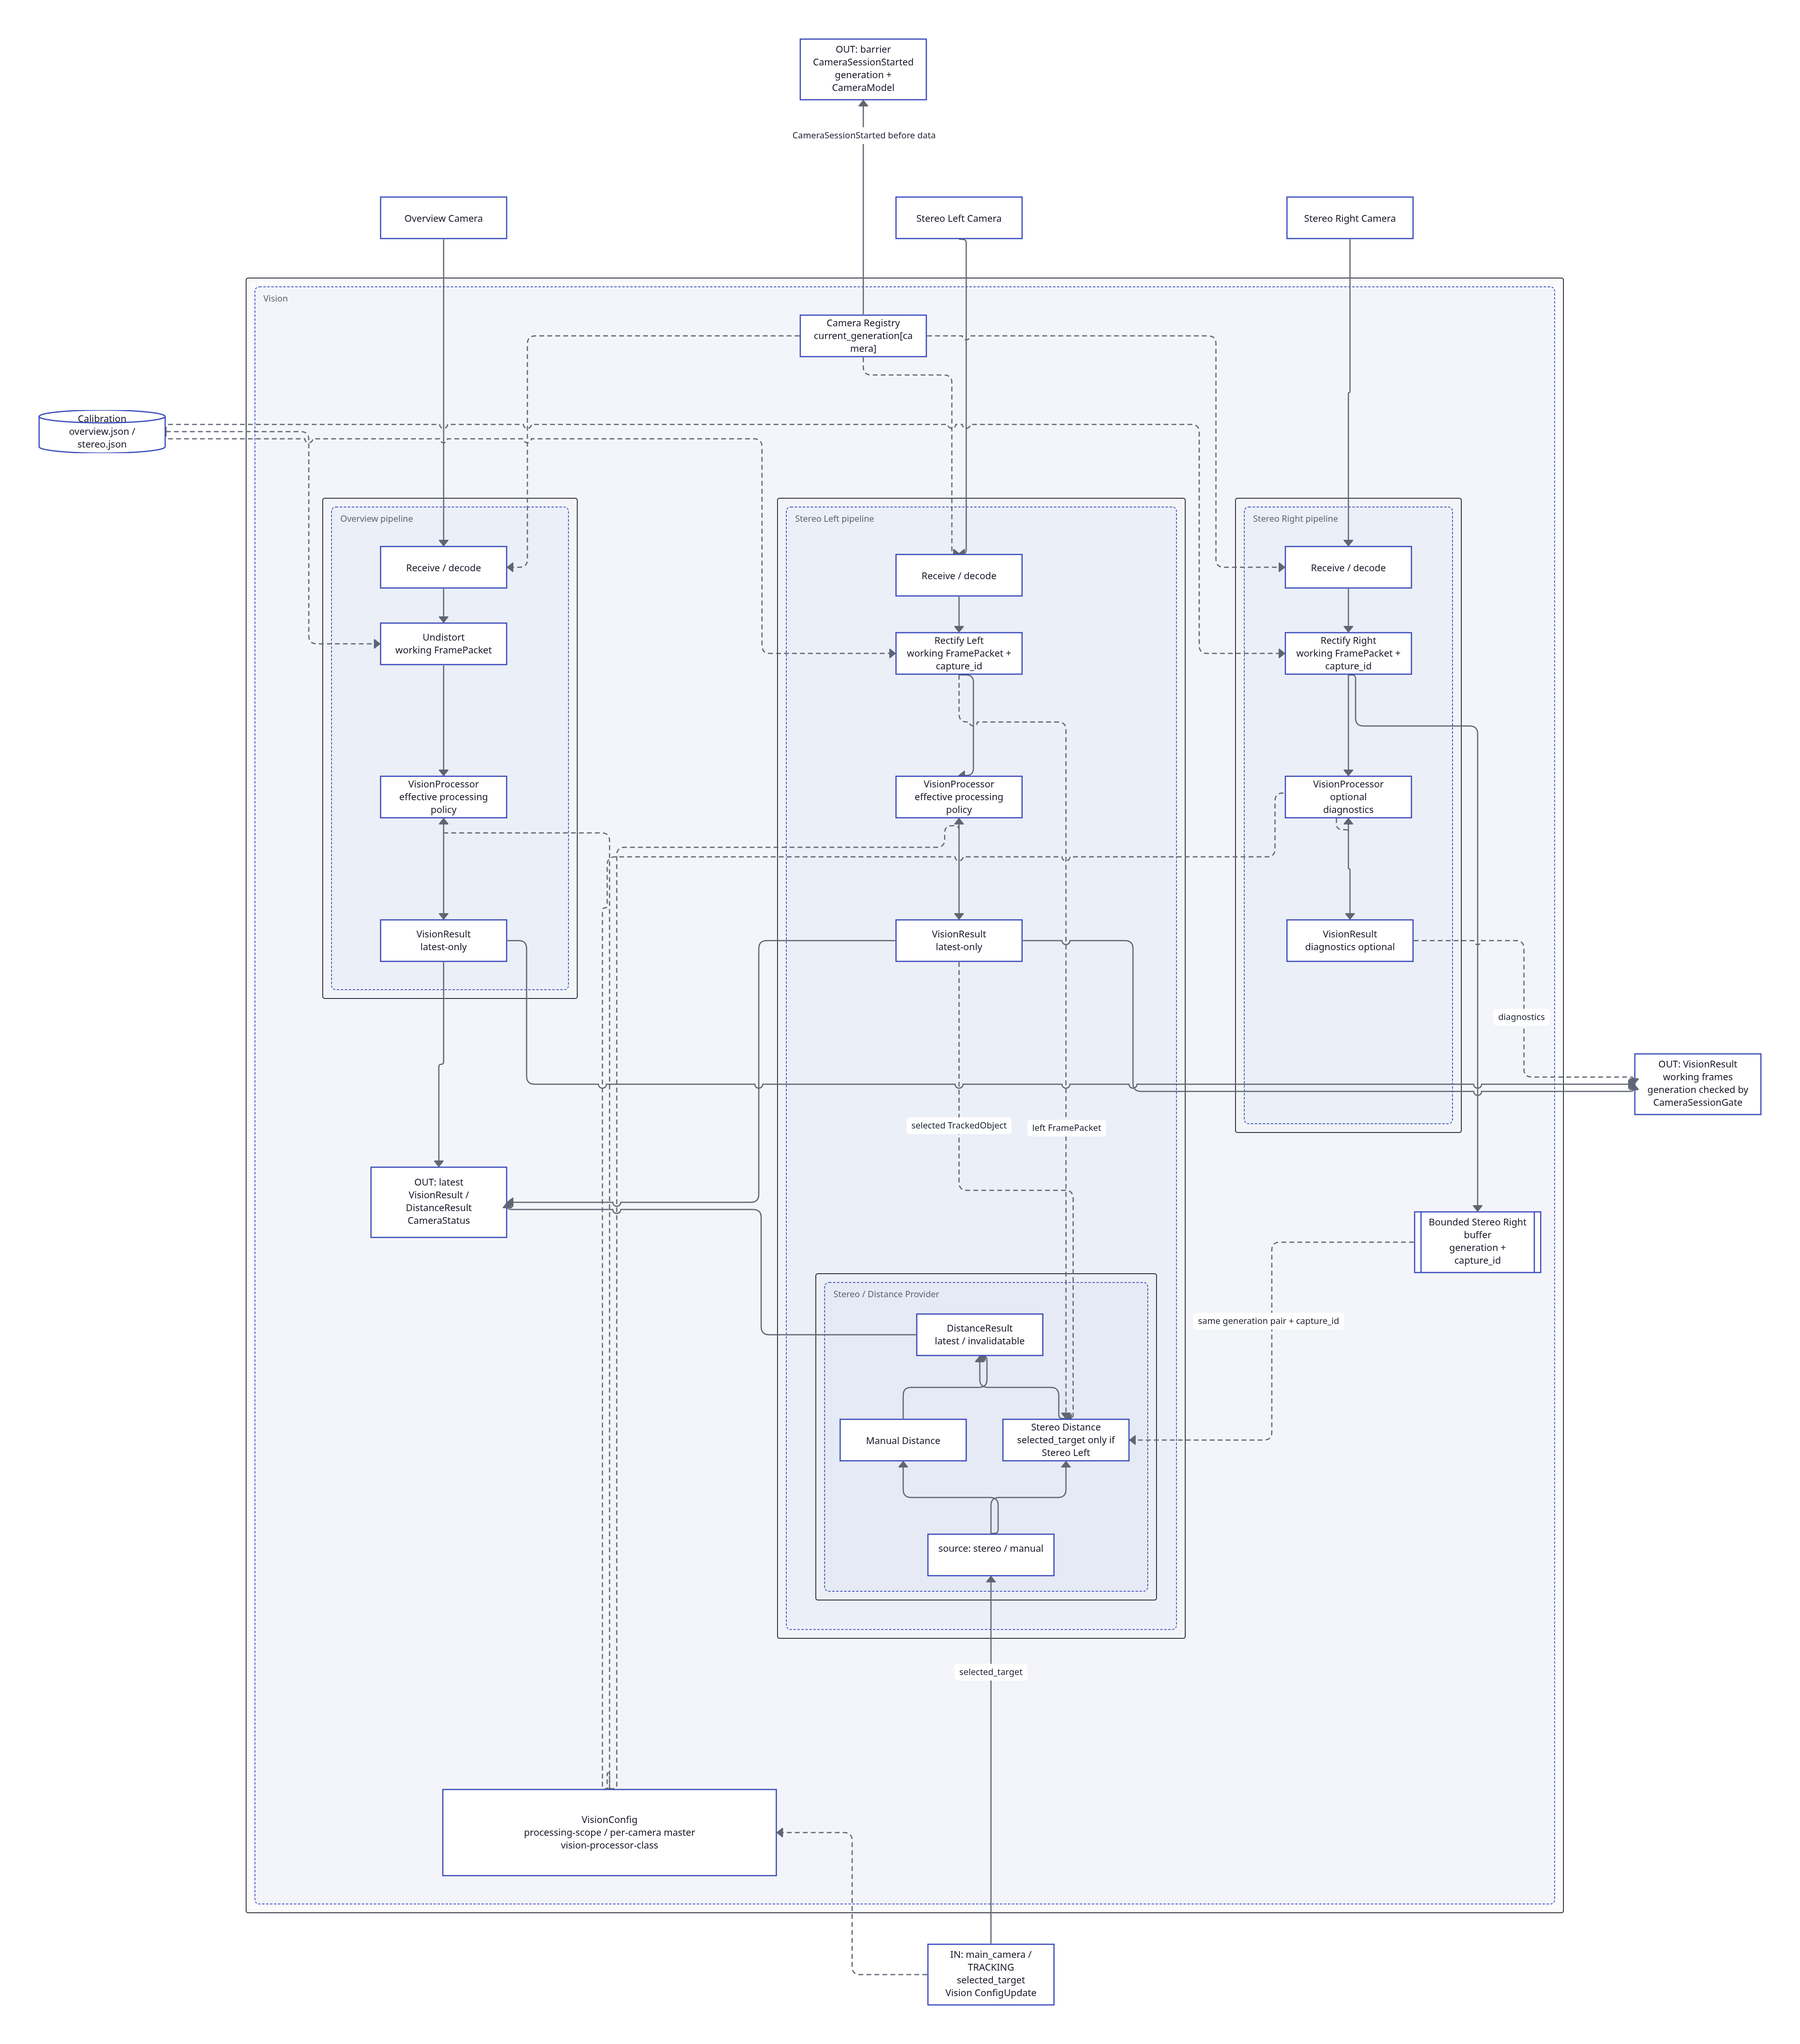
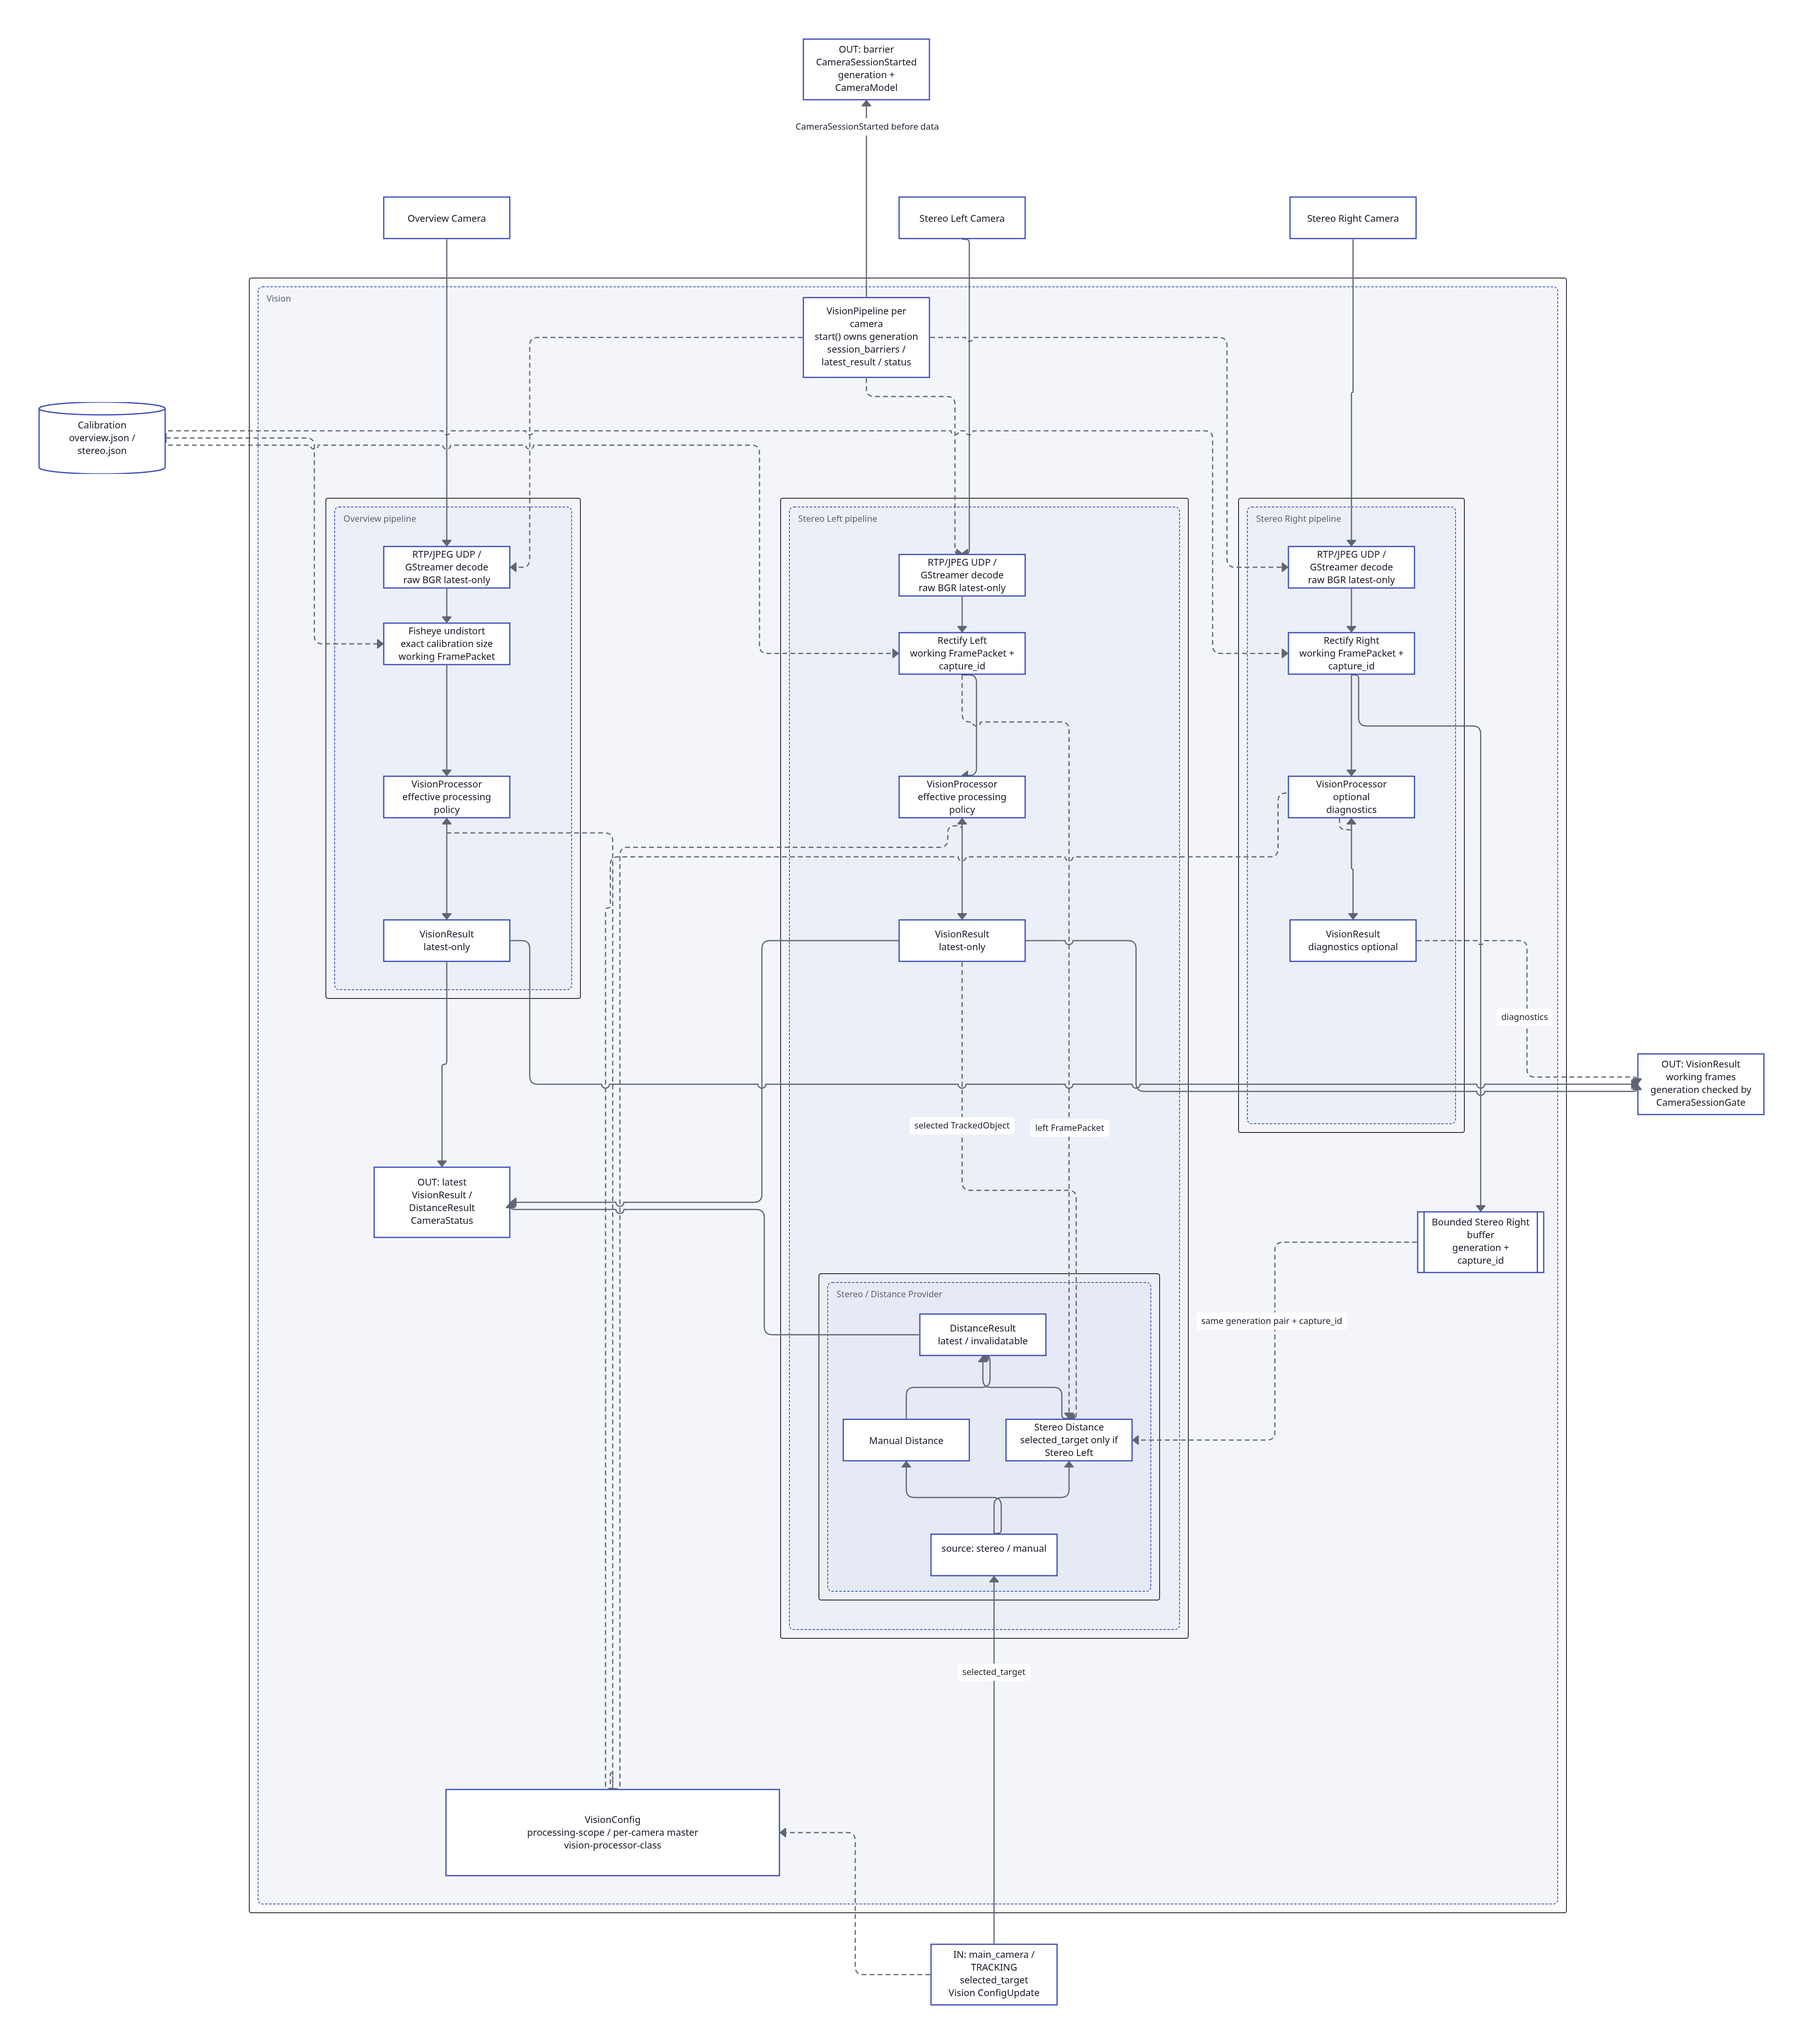
docs(architecture): align docs with current implementation

diff --git a/docs/dev/implementation-plan.md b/docs/dev/implementation-plan.md
@@ -118,9 +118,9 @@ Normal test run не должен требовать hardware.
 | 2. Config + Calibration foundation | done | typed config, persistence, calibration loading/model boundary | 1 |
 | 3. Turret PC stack | done | PC protocol/transport/controller/HAL + simulator | 1, 2 |
 | 4. STM32 firmware + UART | done | firmware protocol/control + UART integration boundary | 3 |
-| 5. Vision | not-started | camera pipelines, generations, working frame, manual distance | 1, 2 |
-| 6. Core + Aiming | not-started | mediator/state transitions/aiming/tracking error | 2, 3, 5 |
-| 7. UI | not-started | PyQt6 main/preview, controls, overlays, settings | 2, 3, 5, 6 |
+| 5. Vision | in-progress — prototype minimum accepted | camera pipelines, generations, working frame, manual distance | 1, 2 |
+| 6. Core + Aiming | in-progress — prototype minimum accepted | mediator/state transitions/aiming/tracking error | 2, 3, 5 |
+| 7. UI | in-progress — prototype minimum accepted | PyQt6 main/preview, controls, overlays, settings | 2, 3, 5, 6 |
 | 8. System integration and v1 hardening | not-started | startup/shutdown, failure paths, E2E, hardware smoke/performance | 4, 5, 6, 7 |
 
 Полноценный stereo distance, camera-to-turret rotational extrinsic, target handoff и другие явно отложенные возможности не являются условиями завершения v1, если архитектурные документы не будут изменены отдельным решением.
@@ -193,9 +193,9 @@ Stage 5 minimum: Legacy14VisionProcessor + SimpleTracker + рабочие Overvi
 
 Не дублировать тест каждого concrete store для каждого будущего domain type, если один generic primitive уже покрыт и domain type не добавляет своей логики.
 
-### Открытые вопросы, которые должен закрыть этап
+### Закрытые prerequisites и открытые вопросы этапа
 
-- `problems.md` #4: concrete latest-state / thread-safe primitives;
+- concrete latest-state / thread-safe primitives закрыты в Foundation;
 - минимальная часть #10: общий stop/join contract;
 - минимальная часть #13: logging transport/setup.
 
@@ -487,7 +487,7 @@ Host-side protocol tests из этапа 3 не дублировать в firmwa
 
 ## 10. Этап 5 — Vision
 
-**Статус:** `not-started`
+**Статус:** `in-progress` — prototype minimum accepted
 
 ### Цель
 
@@ -505,10 +505,10 @@ Host-side protocol tests из этапа 3 не дублировать в firmwa
 
 ### Реализовать
 
-- camera registry по `CameraRole`;
+- camera pipelines по `CameraRole` без отдельного production `Camera Registry`;
 - по одному pipeline worker на роль;
-- generation lifecycle;
-- `CameraSessionStarted` до generation data;
+- в current accepted minimum каждый `VisionPipeline` владеет своей monotonic generation в пределах lifetime экземпляра, а `VisionPipeline.start()` публикует `CameraSessionStarted` до данных новой generation;
+- E2E-1 использует напрямую pipeline-owned `VisionPipeline.session_barriers`, `VisionPipeline.latest_result` и `VisionPipeline.status`;
 - `FramePacket` stamping;
 - receive timestamp/freshness;
 - Overview undistort → working frame;
@@ -527,6 +527,8 @@ Host-side protocol tests из этапа 3 не дублировать в firmwa
 - camera/pipeline simulation suitable for tests and UI development.
 
 Для первого runnable vertical slice достаточно сначала реализовать `Legacy14VisionProcessor` (default) + общий `SimpleTracker` и working-frame path Overview/Stereo Left. `Legacy11VisionProcessor` остаётся обязательным для полного завершения Stage 5, но не блокирует первый end-to-end smoke.
+
+Этот current minimum не принимает окончательного решения об ownership при будущем camera reconnect или replacement экземпляра pipeline. До/в E2E-4 и полном Stage 5 reconnect work нужно сохранить monotonic generation semantics и выбрать одного production owner; отдельный registry или второй generation counter не являются требованием E2E-1.
 
 ### Отложить
 
@@ -590,7 +592,7 @@ Rejection stale/unaccepted generation проверяется на реальны
 
 ## 11. Этап 6 — Core + Aiming
 
-**Статус:** `not-started`
+**Статус:** `in-progress` — prototype minimum accepted
 
 ### Цель
 
@@ -682,7 +684,7 @@ Rejection stale/unaccepted generation проверяется на реальны
 
 ## 12. Этап 7 — UI
 
-**Статус:** `not-started`
+**Статус:** `in-progress` — prototype minimum accepted
 
 ### Цель
 

diff --git a/docs/dev/modules/vision/index.md b/docs/dev/modules/vision/index.md
@@ -30,7 +30,9 @@ Stereo Left worker + Stereo / Distance Provider
 Stereo Right worker
 ```
 
-Vision хранит постоянный camera registry с `current_generation[camera]`.
+В current accepted minimum отдельного постоянного production `Camera Registry` нет. Каждый `VisionPipeline` является фактическим owner своей generation в пределах lifetime экземпляра и предоставляет собственные `session_barriers`, `latest_result` и `status`. E2E-1 использует эти pipeline-owned boundaries напрямую.
+
+Единственный `CameraSessionGate` находится в main thread и принадлежит `Mediator`; второго generation gate/counter нет. Ownership при будущем camera reconnect или replacement экземпляра pipeline остаётся открытой частью полного reconnect work: monotonic generation semantics должны сохраниться, а единственный production owner будет выбран до/в E2E-4. См. [открытый вопрос о camera reconnect](../../architecture/problems.md#8-camera-reconnect-transitions-backoff).
 
 ### Production camera transport v1
 
@@ -135,10 +137,10 @@ Rectification/undistortion maps строятся при старте и живу
 
 ## Camera generation и barrier
 
-При каждом новом запуске/restart pipeline:
+В current accepted minimum каждый вызов `VisionPipeline.start()` для существующего экземпляра pipeline:
 
 ```text
-current_generation[camera] += 1
+pipeline-owned generation += 1
 frame_id = 0
 ```
 
@@ -158,7 +160,7 @@ CameraSessionStarted generation=N
 
 Generation защищает от запоздалых результатов старого worker и от повторного использования `track_id` после restart.
 
-При restart одновременно очищаются локальные latest/buffer state и stereo pairing state соответствующей camera.
+`VisionPipeline.start()` инвалидирует предыдущий latest result и сбрасывает processor state до публикации barrier. Полный reconnect/replacement lifecycle, включая сохранение monotonic generation при замене экземпляра pipeline, остаётся частью открытого reconnect work.
 
 ## `CameraSessionGate`
 

diff --git a/docs/dev/architecture/problems.md b/docs/dev/architecture/problems.md
@@ -75,9 +75,10 @@ Freshness вычисляется отдельно по timestamp.
 - reconnect/backoff;
 - критерий устойчивого ERROR;
 - restart/reset `VisionProcessor`;
+- единственный production owner monotonic generation при reconnect или replacement экземпляра pipeline; current prototype владеет generation внутри существующего `VisionPipeline`, без отдельного `Camera Registry` или второго counter;
 - reconnect history/logging.
 
-При каждом новом pipeline start создаётся новая `generation`.
+При каждом новом pipeline start создаётся новая `generation`; replacement не должен сбрасывать или дублировать monotonic sequence соответствующей camera role.
 
 ### 10. Worker lifecycle
 
